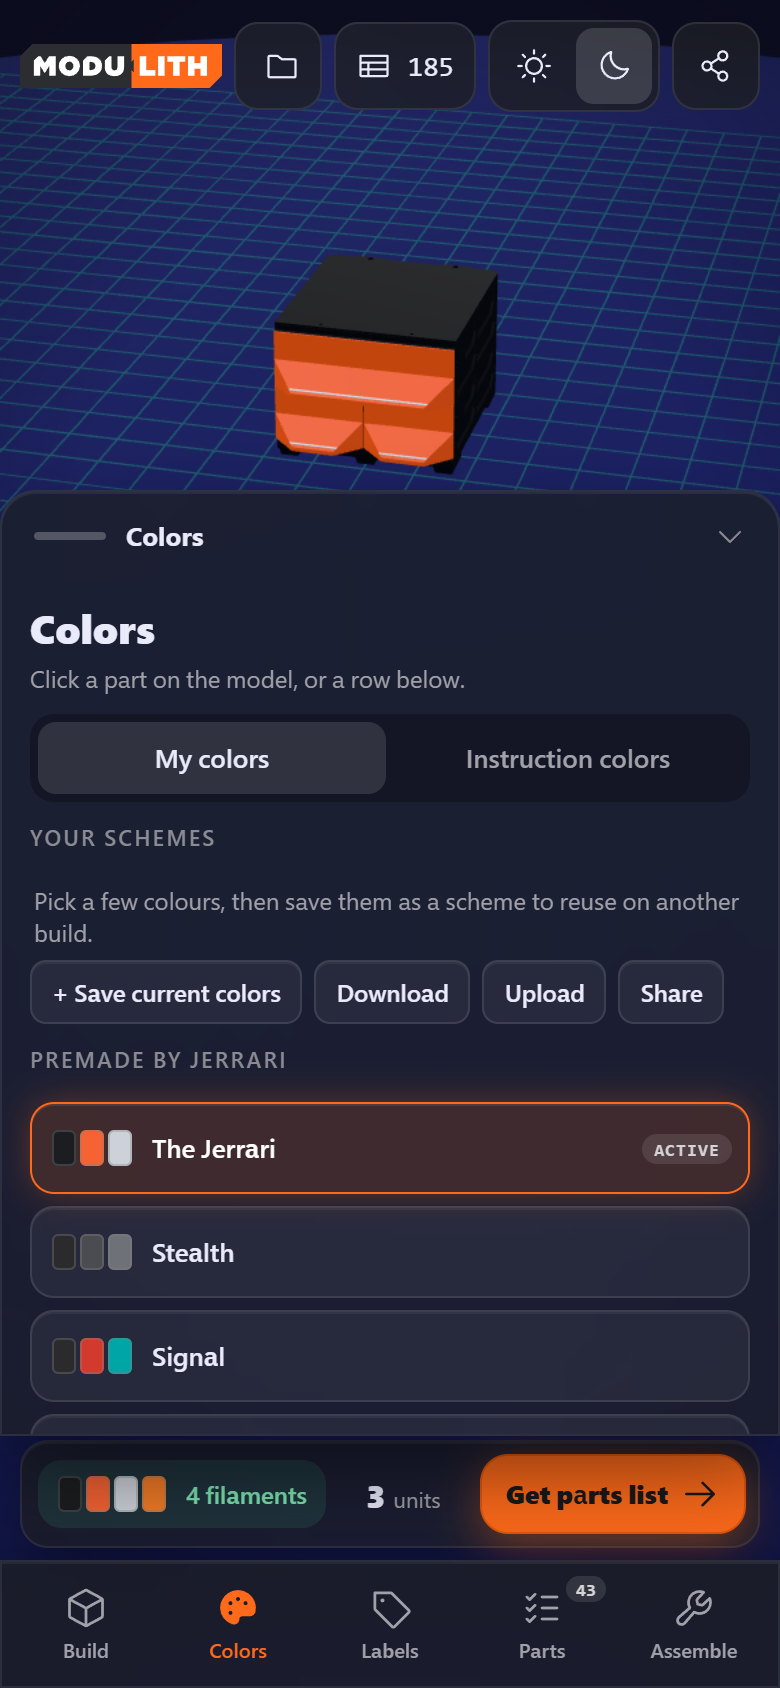
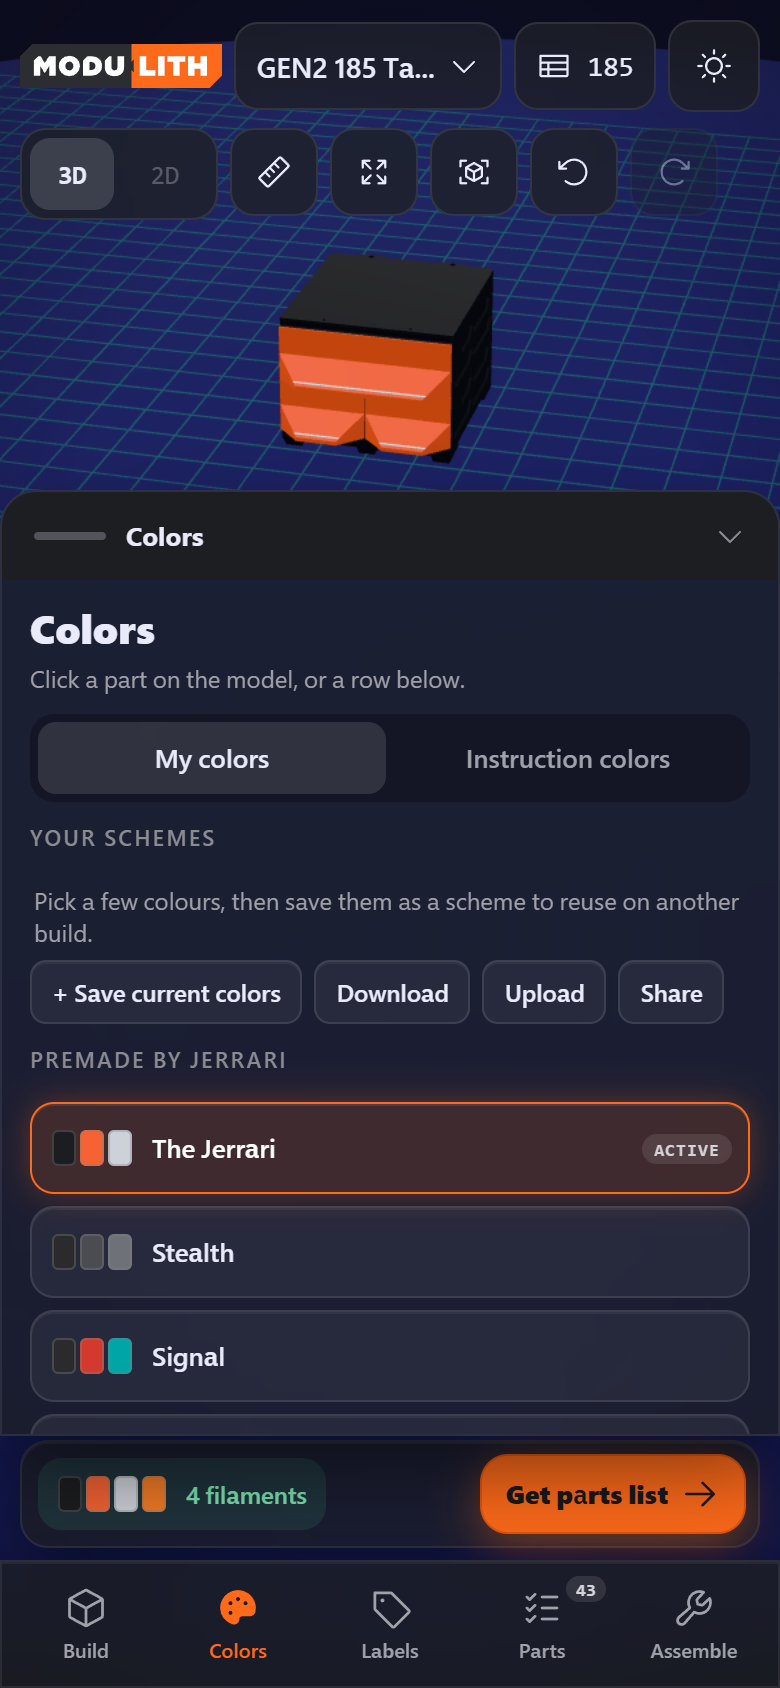
Phone: fix the overlaps from Joey's real-phone pass
Joey's ~412 px phone showed chrome the 375 px emulation had not: the
switcher squeezed under the wordmark, the Dock CTA off the right edge,
the Parts site segment overlapping its labels, a scrolled sheet losing
its handle, the Assemble player collapsed into a narrow column over the
steps sheet, and the tools row keeping its desktop offset outside Build.

- top bar: wordmark, build name + caret, mount icon·number, one theme
  button; Share moves into the switcher menu ("Share link", all sizes)
- dock: status + CTA always fit; the units group yields to a progress
  bar or a filament stack; Parts caption shortens to "N of M"
- tools row: the phone rule is written as html[data-ws] #ws-tools so it
  beats every per-workspace desktop offset
- sheets: sticky glass handle; collapsed sheets clipped to their peek;
  phoneChrome takes the on-bar height (Assemble passes the player's)
  and sets bottom / max-height inline, safe area from the same figures
- Assemble player: compact card, note full width, switch and pips on
  rows of their own
- shots: Assemble, the open steps sheet, the scrolled Colors sheet

Verified headless at 390x844 and emulated at 412x915. Sol 01a1338b:
no objection.

diff --git a/css/app.css b/css/app.css
@@ -256,6 +256,7 @@ html[data-ws="assemble"] #ws-tools { left: 320px; right: 20px; }
 #ws-dock .pbar .track { display: block; height: 6px; border-radius: 3px; background: var(--seg-track); overflow: hidden; padding: 0; }
 #ws-dock .pbar .fill { display: block; height: 6px; background: var(--orange); }
 #ws-dock .pbar .mono { font-size: 11px; color: var(--ink-2); }
+#ws-dock .pbar .short { display: none; }
 #ws-tabs .tab .badge { font-size: 10px; padding: 1px 6px; }
 html[data-ws="parts"] #ws-tools { left: 480px; right: 364px; }
 @media (max-width: 1279px) { #ws-parts { top: 134px; width: 400px; } html[data-ws="parts"] #ws-tools { left: 440px; } }
@@ -427,34 +428,46 @@ html[data-ws="colors"] #ws-tools { left: 344px; right: 364px; }
 /* ---- the phone layout (<= 1023 px): a bottom tab bar, panels as bottom sheets, a slim dock (the brief §2) ---- */
 #ws-tabbar { display: none; }
 @media (max-width: 1023px) {
+  /* the bar (Joey's phone, 2026-10-13: at 390-412 px the switcher was a sliver under the wordmark): the wordmark,
+     the build name with its caret, mount·length as icon + number, and ONE theme button (the other mode's icon);
+     Share lives in the switcher menu, the printer chip waits for the setup sheet, the tabs are the bottom bar */
   #ws-top { top: 10px; left: 10px; right: 10px; gap: 6px; }
-  #ws-top #ws-tabs, #ws-top .preview, #ws-top .printer, #ws-top .share span, #ws-top .spacer { display: none; }
-  #ws-top .chip-btn.share { padding: 0 12px; }
+  #ws-top #ws-tabs, #ws-top .preview, #ws-top .printer, #ws-top .share, #ws-top .spacer { display: none; }
   #ws-top #ws-switch { flex: 1; min-width: 0; margin-left: 0; }
-  #ws-top #ws-switch > .chip-btn { width: 100%; }
-  #ws-top #ws-switch > .chip-btn > span { flex: 1; max-width: none; }
-  #ws-top .chip-btn.mount { padding: 0 10px; }
+  #ws-top #ws-switch > .chip-btn { width: 100%; padding: 0 10px; gap: 6px; }
+  #ws-top #ws-switch > .chip-btn > :first-child { display: none; }
+  #ws-top #ws-switch > .chip-btn > span { flex: 1; max-width: none; text-align: left; }
+  #ws-switch .menu { width: min(260px, calc(100vw - 20px)); }
+  #ws-top .chip-btn.mount { padding: 0 10px; flex: none; }
   #ws-top .chip-btn.mount .lbl { display: none; }
+  #ws-theme button.on { display: none; }
   #ws-logo img { height: 22px; }
   #ws-tabbar { display: flex; position: absolute; left: 0; right: 0; bottom: 0; height: 64px; justify-content: space-around; align-items: stretch; padding: 4px 4px calc(4px + env(safe-area-inset-bottom, 0px)); border-radius: 0; border-width: 1px 0 0 0; z-index: 12; }
   #ws-tabbar .tab { flex: 1; display: flex; flex-direction: column; align-items: center; justify-content: center; gap: 3px; border: none; background: transparent; color: var(--ink-2); font-size: 10px; font-weight: 600; position: relative; border-radius: 10px; }
   #ws-tabbar .tab.on { color: var(--orange); }
   #ws-tabbar .tab .badge { position: absolute; top: 3px; right: 8%; font-size: 9px; padding: 1px 5px; }
-  #ws-tools { top: 64px; left: 10px; right: 10px; gap: 6px; justify-content: flex-start; flex-wrap: nowrap; overflow-x: auto; scrollbar-width: none; }
+  /* the tools row: every workspace's desktop offset (left: 320/344/480/860 px) loses to the phone's full row */
+  #ws-tools, html[data-ws] #ws-tools, html.ws-parts-wide[data-ws="parts"] #ws-tools { top: 64px; left: 10px; right: 10px; gap: 6px; justify-content: flex-start; flex-wrap: nowrap; overflow-x: auto; scrollbar-width: none; }
   #ws-tools .quality { display: none; }
-  #ws-dock { left: 10px; right: 10px; bottom: 70px; transform: none; padding: 6px 6px 6px 8px; gap: 8px; justify-content: space-between; border-radius: 14px; z-index: 11; }
+  /* the dock: status and the CTA always fit; the units·mm group yields to a progress bar or a filament stack */
+  #ws-dock { left: 10px; right: 10px; bottom: 70px; transform: none; padding: 6px 6px 6px 8px; gap: 8px; justify-content: space-between; border-radius: 14px; z-index: 11; min-width: 0; }
   #ws-dock .group { gap: 4px; }
-  #ws-dock .group:nth-of-type(2) { display: none; }
+  #ws-dock .group:nth-of-type(2), #ws-dock:has(.pbar) .group, #ws-dock:has(.status.stack) .group { display: none; }
   #ws-dock .big { font-size: 16px; }
   #ws-dock .unit-lbl { font-size: 11px; }
-  #ws-dock .status { height: 34px; padding: 0 10px; font-size: 12px; }
-  #ws-dock .cta { height: 40px; padding: 0 12px; font-size: 13px; gap: 6px; }
-  #ws-dock .pbar { width: 90px; }
-  /* sheets */
-  #ws .sheet { position: absolute; left: 0; right: 0; top: auto; bottom: 126px; width: auto; max-height: 56vh; box-sizing: border-box; border-radius: 18px 18px 0 0; padding: 0 14px 14px; display: flex; flex-direction: column; gap: 10px; overflow: hidden; transform: translateY(calc(100% - var(--peek, 44px))); transition: transform var(--d-pop) var(--ease-out); z-index: 10; animation: none; }
-  #ws .sheet.open { transform: none; overflow-y: auto; z-index: 13; }
+  #ws-dock .status { height: 36px; padding: 0 10px; font-size: 12px; flex: none; }
+  #ws-dock .status.stack .stacks i:nth-child(n+5) { display: none; }
+  #ws-dock .cta { height: 40px; padding: 0 12px; font-size: 13px; gap: 6px; flex: none; }
+  #ws-dock .pbar { flex: 1; width: auto; min-width: 56px; }
+  #ws-dock .pbar .mono { white-space: nowrap; overflow: hidden; text-overflow: ellipsis; }
+  #ws-dock .pbar .long { display: none; }
+  #ws-dock .pbar .short { display: block; }
+  /* sheets: the handle stays put while the sheet scrolls under it; the sheet manager sets bottom and max-height
+     inline from the live dock height (the Assemble player is taller than the dock) */
+  #ws .sheet { position: absolute; left: 0; right: 0; top: auto; bottom: 126px; width: auto; max-height: 56vh; box-sizing: border-box; border-radius: 18px 18px 0 0; padding: 0 14px 14px; display: flex; flex-direction: column; gap: 10px; overflow: hidden; transform: translateY(calc(100% - var(--peek, 44px))); clip-path: inset(0 0 calc(100% - var(--peek, 44px)) 0); transition: transform var(--d-pop) var(--ease-out), clip-path var(--d-pop) var(--ease-out); z-index: 10; animation: none; }   /* collapsed: only the peek shows; the rest is clipped, not just slid behind the dock (it showed through the Assemble player's glass) */
+  #ws .sheet.open { transform: none; clip-path: inset(0); overflow-y: auto; z-index: 13; }
   #ws .sheet[hidden] { display: none; }
-  #ws .sheet-handle { flex: none; display: flex; align-items: center; gap: 10px; height: 44px; margin: 0 -14px; padding: 0 16px; cursor: pointer; user-select: none; -webkit-user-select: none; touch-action: none; }
+  #ws .sheet-handle { position: sticky; top: 0; z-index: 2; flex: none; display: flex; align-items: center; gap: 10px; height: 44px; margin: 0 -14px; padding: 0 16px; background: var(--glass-bg); backdrop-filter: var(--blur); -webkit-backdrop-filter: var(--blur); cursor: pointer; user-select: none; -webkit-user-select: none; touch-action: none; }
   #ws .sheet-handle .grab { width: 36px; height: 4px; border-radius: 2px; background: var(--ink-3); opacity: .5; }
   #ws .sheet-handle .ttl { flex: 1; font-size: 13px; font-weight: 700; white-space: nowrap; overflow: hidden; text-overflow: ellipsis; }
   #ws .sheet-handle .chev { color: var(--ink-3); display: inline-flex; }
@@ -465,12 +478,35 @@ html[data-ws="colors"] #ws-tools { left: 344px; right: 364px; }
   #ws-board { top: 110px; left: 10px; right: 10px; bottom: 176px; }
   #ws-issues, #ws-partcard, #ws-shop, #ws-choice { width: auto; left: 10px; right: 10px; transform: none; bottom: 132px; max-height: 44vh; }
   #ws-menu { width: 180px; }
+  /* Parts: the head wraps (the four download sites on a row of their own, Track under them); Expand is a desktop
+     control */
   #ws-parts.wide { width: auto; }
+  #ws-parts .head { padding: 0 0 10px; gap: 8px; }
+  #ws-parts .row1 .expand { display: none; }
+  #ws-parts .row2 { flex-wrap: wrap; gap: 2px 8px; }
+  #ws-parts .row2 .dim { text-align: left; }
+  #ws-parts .row3 { flex-wrap: wrap; }
+  #ws-parts .sites { flex: 1 1 100%; }
+  #ws-parts .sites .seg { padding: 0 2px; min-width: 0; overflow: hidden; }
+  #ws-parts .row3 > .key { flex: 1; }
+  #ws-parts .body { padding: 0 0 8px; }
   #ws-parts .thead, #ws-parts .prow.trow { grid-template-columns: 14px minmax(0, 1fr) 40px 96px 96px 60px; }
   #ws-parts .thead span:last-child, #ws-parts .prow.trow > :last-child { display: none; }
   #ws-colors .scheme .shop { display: none; }
-  #ws-player { left: 10px; right: 10px; width: auto; transform: none; bottom: 70px; }
-  #ws-steps.sheet { bottom: 126px; }
+  /* Assemble: the player sits on the bar as a compact card (the note gets the width, the colour switch and the
+     pips take rows of their own); the steps sheet stacks above it */
+  #ws-player { left: 10px; right: 10px; width: auto; transform: none; bottom: 70px; padding: 10px 12px; gap: 8px; border-radius: 16px; z-index: 11; }
+  #ws-player .row1 { flex-wrap: wrap; gap: 8px 10px; }
+  #ws-player .row1 > div:not(.colors) { flex: 1; min-width: 0; }
+  #ws-player .row1 .colors { flex: 1 1 100%; margin-left: 0; display: grid; grid-template-columns: 1fr 1fr; }
+  #ws-player .colors .seg { height: 28px; padding: 0; }
+  #ws-player .num { width: 30px; height: 30px; font-size: 13px; }
+  #ws-player .title { font-size: 16px; }
+  #ws-player .text { font-size: 13px; line-height: 1.45; max-height: 24vh; overflow-y: auto; }
+  #ws-player .row2 { flex-wrap: wrap; gap: 6px; }
+  #ws-player .pips { flex: 1 1 100%; order: -1; }
+  #ws-player .row2 .key { height: 38px; padding: 0 10px; flex: 1; font-size: 12px; }
+  #ws-player .row2 .sq { flex: none; width: 40px; }
 }
 
 /* ---- toast ---- */

diff --git a/js/ui/phone.js b/js/ui/phone.js
@@ -12,8 +12,12 @@ export const PHONE_MAX = 1023;
 export const isPhone = () => innerWidth <= PHONE_MAX;
 const TABBAR = 64, DOCK = 56, HANDLE = 44;
 
-/* ctx: { active, has, switchTo, badges, soon }; panels: [{ el, title, peek?() -> node | string | null, open?: boolean }] */
-export function phoneChrome(root, ctx, { panels = [] } = {}) {
+/* ctx: { active, has, switchTo, badges, soon }; panels: [{ el, title, peek?() -> node | string | null, open?: boolean }];
+   dock: the height of whatever sits on the bar (the dock by default; Assemble passes its player's live height) */
+export function phoneChrome(root, ctx, { panels = [], dock = DOCK } = {}) {
+  const dockH = () => Math.max(0, Math.round(typeof dock === 'function' ? dock() : dock));
+  const base = () => TABBAR + dockH() + 6;   // where the lowest sheet's bottom edge sits
+  const openHeight = () => Math.max(160, Math.min(Math.round(innerHeight * 0.56), innerHeight - base() - 110));
   const badges = (typeof ctx.badges === 'function' ? ctx.badges() : ctx.badges) || {};
   const bar = el('nav.glass', { id: 'ws-tabbar', 'aria-label': 'Workspaces' });
   for (const [id, label, ic] of TABS) {
@@ -38,11 +42,12 @@ export function phoneChrome(root, ctx, { panels = [] } = {}) {
      (Sol 01a13367); an open sheet rises from the dock over them */
   const collapsedHeight = (e) => HANDLE + (e.peek && e.peek() ? 40 : 0);
   function stack() {
-    let off = 0;
+    let off = 0; const b = base();
     for (const e of sheets.values()) {
       if (e.el.hidden) continue;
-      if (e.open) { e.el.style.bottom = ''; continue; }
-      e.el.style.bottom = `${TABBAR + DOCK + 6 + off}px`;
+      if (e.open) { e.el.style.bottom = `${b}px`; e.el.style.maxHeight = `${openHeight()}px`; continue; }
+      e.el.style.maxHeight = '';
+      e.el.style.bottom = `${b + off}px`;
       off += collapsedHeight(e);
     }
   }
@@ -75,7 +80,6 @@ export function phoneChrome(root, ctx, { panels = [] } = {}) {
   }
   stack();
   let onLayout = null;
-  const peekOf = (panel) => { const e = sheets.get(panel); if (!e || panel.hidden) return 0; return e.open ? Math.round(innerHeight * 0.56) : collapsedHeight(e); };
   return {
     bar,
     open: (panel) => open(panel, true),
@@ -83,9 +87,9 @@ export function phoneChrome(root, ctx, { panels = [] } = {}) {
     isOpen: (panel) => !!sheets.get(panel)?.open,
     refresh: () => { for (const e of sheets.values()) render(e); stack(); },
     /* the stage's safe area under the chrome: the tallest visible sheet (collapsed = its handle and peek), the dock, the bar */
-    bottom: () => { stack(); const vis = [...sheets.values()].filter((e) => !e.el.hidden); const openOne = vis.find((e) => e.open); return TABBAR + DOCK + (openOne ? Math.round(innerHeight * 0.56) : vis.reduce((n, e) => n + collapsedHeight(e), 0)); },
+    bottom: () => { stack(); const vis = [...sheets.values()].filter((e) => !e.el.hidden); const openOne = vis.find((e) => e.open); return base() + (openOne ? openHeight() : vis.reduce((n, e) => n + collapsedHeight(e), 0)); },
     top: () => 110,
     onLayout: (fn) => { onLayout = fn; },
-    destroy() { bar.remove(); for (const e of sheets.values()) { e.mo.disconnect(); e.handle.remove(); e.el.querySelector(':scope > .sheet-peek')?.remove(); e.el.classList.remove('sheet', 'open'); } sheets.clear(); },
+    destroy() { bar.remove(); for (const e of sheets.values()) { e.mo.disconnect(); e.handle.remove(); e.el.querySelector(':scope > .sheet-peek')?.remove(); e.el.classList.remove('sheet', 'open'); e.el.style.bottom = ''; e.el.style.maxHeight = ''; } sheets.clear(); },
   };
 }

diff --git a/js/workspaces/assemble.js b/js/workspaces/assemble.js
@@ -107,8 +107,8 @@ export function mountAssemble(stage, ctx) {
   }
 
   /* ---------------- stage ---------------- */
-  const phone = isPhone() ? phoneChrome(root, { ...ctx, active: 'assemble', soon }, { panels: [{ el: list, title: () => `Step ${Math.max(0, stage.cur)} of ${stage.pageCount - 2}`, open: false }] }) : null;
-  const safe = () => { if (phone) { stage.setSafeArea({ left: 8, right: 8, top: phone.top(), bottom: phone.bottom() + player.offsetHeight }); return; } stage.setSafeArea({ left: 280 + 20 + 8, right: 8, top: innerWidth < 1280 ? 134 : 90, bottom: 22 + player.offsetHeight + 12 }); };
+  const phone = isPhone() ? phoneChrome(root, { ...ctx, active: 'assemble', soon }, { panels: [{ el: list, title: () => `Step ${Math.max(0, stage.cur)} of ${stage.pageCount - 2}`, open: false }], dock: () => player.offsetHeight }) : null;
+  const safe = () => { if (phone) { phone.refresh(); stage.setSafeArea({ left: 8, right: 8, top: phone.top(), bottom: phone.bottom() }); return; } stage.setSafeArea({ left: 280 + 20 + 8, right: 8, top: innerWidth < 1280 ? 134 : 90, bottom: 22 + player.offsetHeight + 12 }); };
   if (phone) phone.onLayout(safe);
   addEventListener('resize', safe, { signal });
   document.addEventListener('keydown', (e) => { if (e.key === '\\') root.hidden = !root.hidden; }, { signal });

diff --git a/js/workspaces/parts.js b/js/workspaces/parts.js
@@ -298,7 +298,7 @@ export function mountParts(stage, ctx) {
     dock.firstChild.prepend(el('span.dot'));
     if (st.tracking) {
       const done = printCount - toGo;
-      dock.appendChild(el('div.pbar', {}, [el('span.track', {}, [el('span.fill', { style: `width:${printCount ? Math.round(done / printCount * 100) : 0}%` })]), el('span.mono', { text: `${done} of ${printCount} in hand · ${toGo} to go` })]));
+      dock.appendChild(el('div.pbar', {}, [el('span.track', {}, [el('span.fill', { style: `width:${printCount ? Math.round(done / printCount * 100) : 0}%` })]), el('span.mono.long', { text: `${done} of ${printCount} in hand · ${toGo} to go` }), el('span.mono.short', { text: `${done} of ${printCount}` })]));
     }
     dock.appendChild(el('button.cta', { onclick: () => { if (ctx.memo) ctx.memo.assemblePage = 1; ctx.switchTo('assemble'); } }, ['Start assembly', icon('arrow-right', { size: 20 })]));
   }

diff --git a/js/ui/topbar.js b/js/ui/topbar.js
@@ -44,6 +44,7 @@ export function topbar(stage, ctx) {
       el('div.label', { text: 'Recent builds' }),
       el('div.meta', { text: 'Autosaved in this browser · arrives with the build store', style: 'padding:4px 10px 8px' }),
       el('div.divider'),
+      el('button.item', { role: 'menuitem', onclick: () => { set(false); share(); } }, [el('span', { text: 'Share link' }), icon('share-network', { size: 16 })]),
       ...[['Rename', 'the build store'], ['Duplicate', 'the build store'], ['Save build file', 'the build store'], ['Load build file', 'the build store'], ['New build', 'the setup sheet']]
         .map(([t, when]) => el('button.item', { role: 'menuitem', disabled: true, title: `${t} comes with ${when}` }, [el('span', { text: t })])),
     );

diff --git a/docs/redesign/DECISIONS.md b/docs/redesign/DECISIONS.md
@@ -83,3 +83,12 @@ Dated calls made while building, with who made them. The brief and the inventory
 - **The slim Dock** keeps the status, the unit count and the CTA above the tab bar; the W × H × L figure and the quality pill wait for width.
 - **Verified in an emulated 375 × 812 viewport** (synthetic touch events; the orbit itself cannot be driven synthetically and needs a real device): three drawers placed through choose + Place with the sheet closed; a drag across the model placed nothing; a selection stayed below the model; a supporting drawer with no valid spot now says so; Undo; Parts through the bar and back to Build with the selection kept. Joey's hands-on check on a real phone is the acceptance.
 
+
+## 2026-10-13 (the real phone: Joey's first hands-on check)
+
+- **Joey's phone (about 412 px) showed overlapping chrome the emulated 375 × 812 check had not: the switcher squeezed to a sliver under the wordmark, the Dock's CTA off the right edge, the Parts download-site segment overlapping its labels, a scrolled sheet losing its handle, the Assemble player collapsed into a narrow column over the collapsed steps sheet, and the tools row keeping its desktop offset in every workspace but Build.** The emulation had been at one width with the sheets mostly closed; a real device with a long step note and tracking on is the acceptance, as the phone-phase entry said.
+- **The phone bar is the wordmark, the build name with its caret, mount·length as icon + number, and one theme button.** The Share chip leaves the bar and becomes "Share link" in the switcher menu on every size; the printer chip waits for the setup sheet. Phone widths of 360–412 px leave the build name 90–140 px.
+- **The Dock keeps status and CTA and yields the units figure to a progress bar or a filament stack.** The Parts caption shortens to "N of M" on a phone (the full caption stays on desktop).
+- **A sheet's handle is sticky and glass; collapsed sheets are clipped to their peek, not merely slid behind the Dock** (the Assemble steps showed through the player's glass). The sheet manager takes the height of whatever sits on the bar from the workspace (Assemble passes the player's live height), sets each sheet's bottom and max-height inline from it, and reports the safe area from the same figures.
+- **The Assemble player is a compact card on a phone**: the note takes the width and scrolls past 24% of the screen, the colour switch and the pips take rows of their own, the keys share one row.
+- **Verified headless at 390 × 844 and emulated at 412 × 915**, shots `phone-*-dark-390.png` (Assemble, the open steps sheet and the scrolled Colors sheet added). Joey's next hands-on pass is the acceptance.
